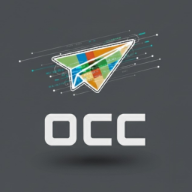
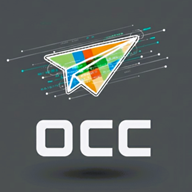
Add files via upload
icon更新

diff --git a/sw.js b/sw.js
@@ -1,7 +1,7 @@
 // --- ▼▼▼ 請用以下全部內容，取代您 sw.js 的所有內容 ▼▼▼ ---
 
 // 步驟 1: 版本號升級！
-const CACHE_NAME = 'shift-platform-cache-v2'; 
+const CACHE_NAME = 'shift-platform-cache-v3'; 
 const urlsToCache = [
   './index.html'
 ];
